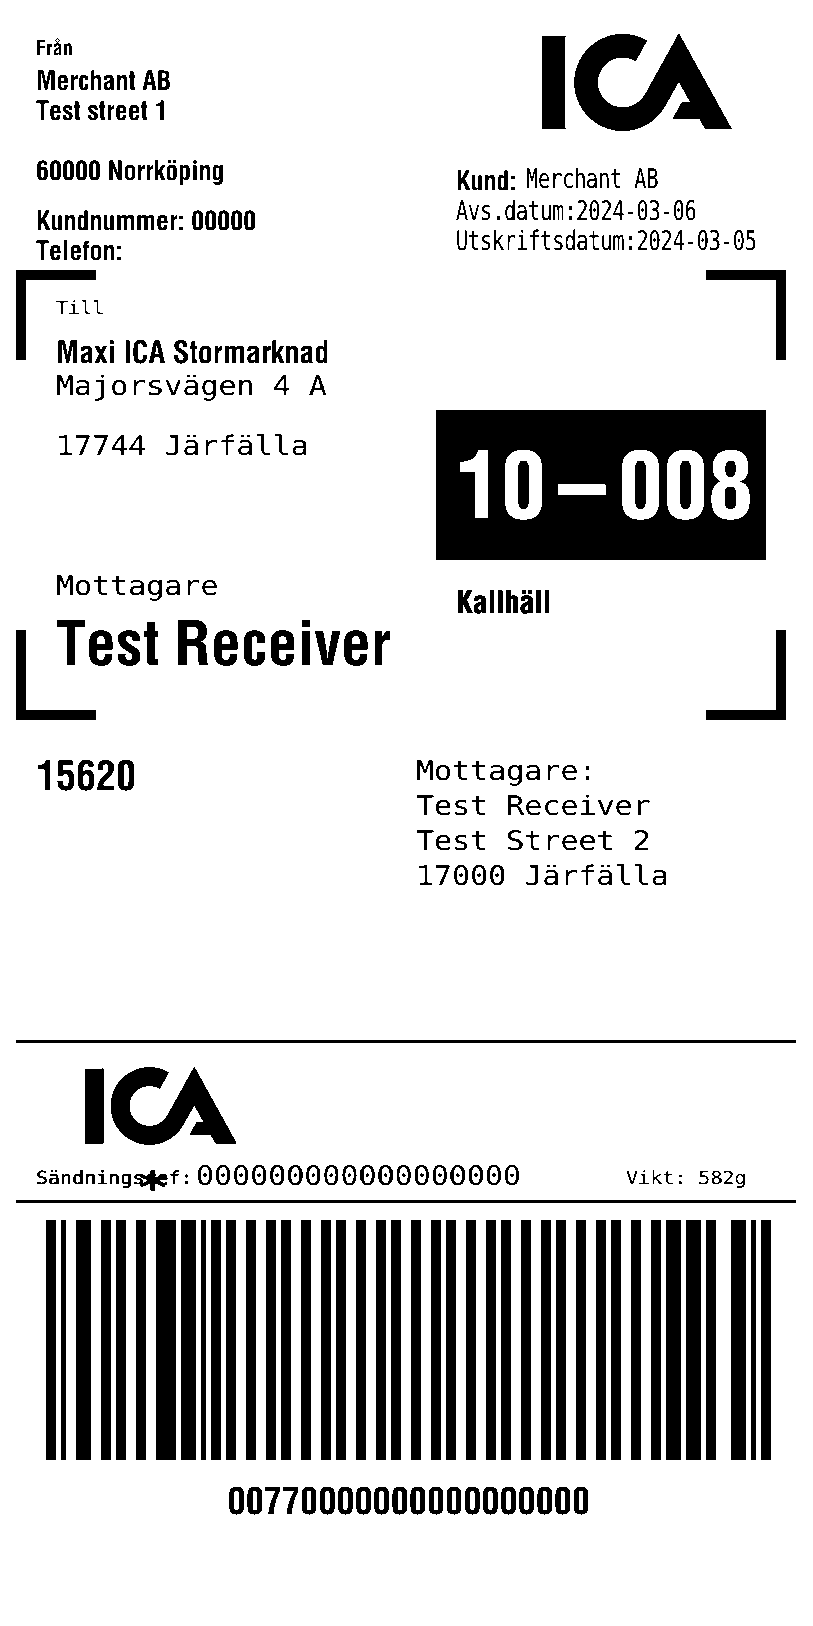
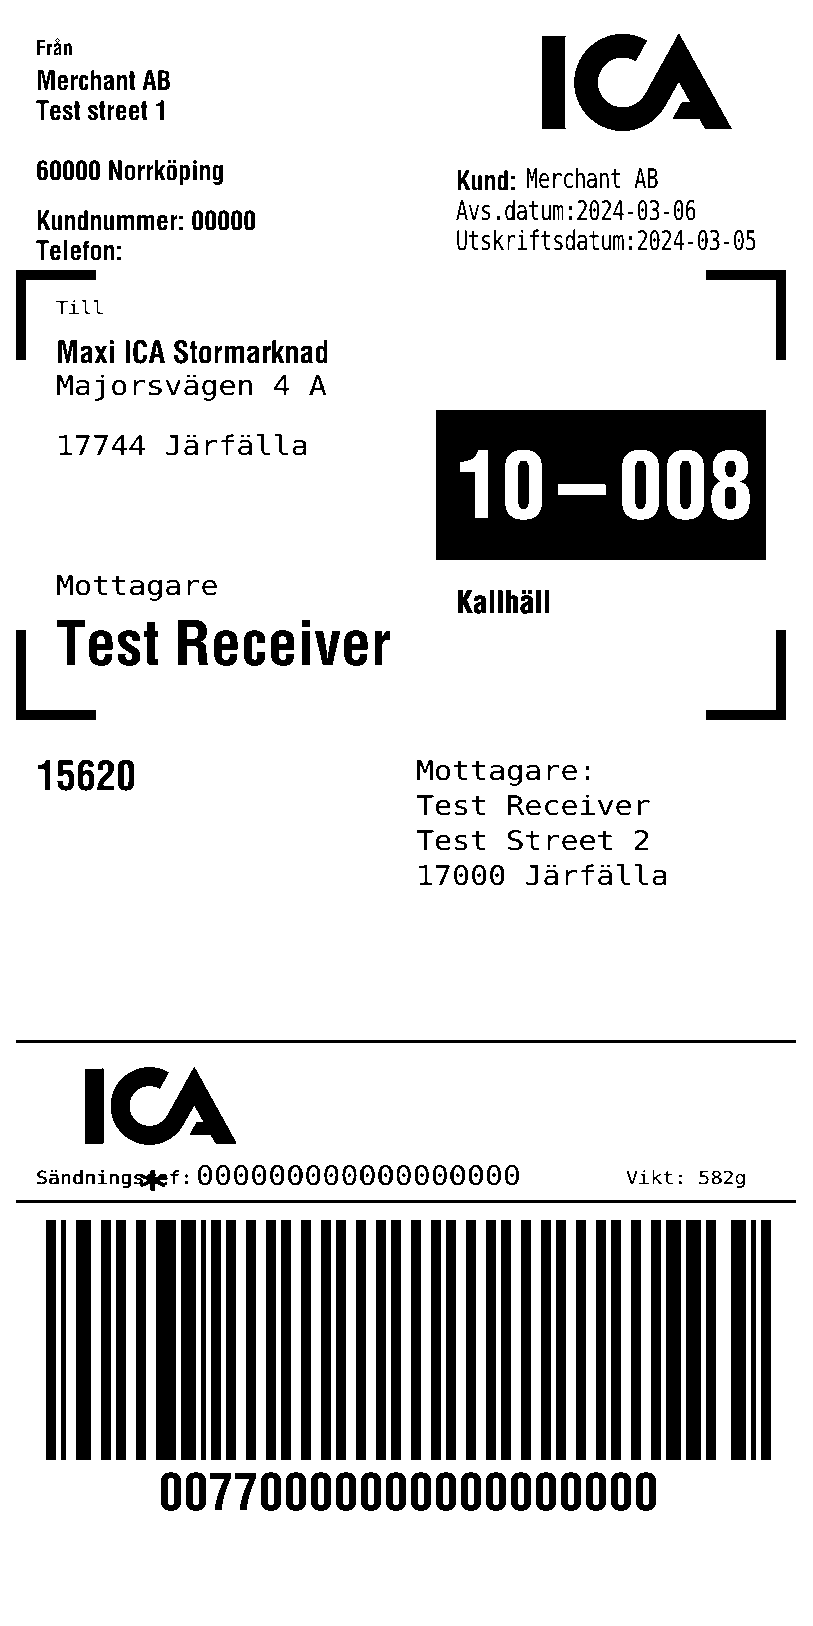
Adjust barcode text sizes and maxicode positioning

Changed region(s): [[0.1845, 0.8918, 0.8303, 0.9533]]

diff --git a/internal/drawers/barcode_128.go b/internal/drawers/barcode_128.go
@@ -15,10 +15,6 @@ import (
 	"github.com/ingridhq/zebrash/internal/elements"
 )
 
-const (
-	barcodeLineFontSizeScaleFactor = 20
-)
-
 var (
 	barcode128FNC1 = string(code128.ESCAPE_FNC_1)
 
@@ -74,7 +70,7 @@ func NewBarcode128Drawer() *ElementDrawer {
 
 			gCtx.DrawImage(img, pos.X, pos.Y)
 			if barcode.Line {
-				applyLineTextToCtx(gCtx, text, pos, barcode.LineAbove, width, height)
+				applyLineTextToCtx(gCtx, text, pos, barcode.LineAbove, float64(barcode.Width), width, height)
 			}
 
 			return nil
@@ -82,20 +78,20 @@ func NewBarcode128Drawer() *ElementDrawer {
 	}
 }
 
-func applyLineTextToCtx(gCtx *gg.Context, content string, pos elements.LabelPosition, lineAbove bool, width, height float64) {
+func applyLineTextToCtx(gCtx *gg.Context, content string, pos elements.LabelPosition, lineAbove bool, barWidth, width, height float64) {
 	gCtx.SetColor(color.Black)
-	fontSize := width / barcodeLineFontSizeScaleFactor
+	fontSize := max(barWidth, 1) * 10
 
 	face := truetype.NewFace(font0, &truetype.Options{Size: fontSize})
 	gCtx.SetFontFace(face)
 
 	x := float64(pos.X) + float64(width)/2
-	y := float64(pos.Y) - fontSize
+	y := float64(pos.Y) - fontSize/2
 	if !lineAbove {
 		y = float64(pos.Y) + height + fontSize
 	}
 
-	gCtx.DrawStringAnchored(content, x, y, 0.5, 0.5)
+	gCtx.DrawStringAnchored(content, x, y, 0.5, 0)
 }
 
 // Allows dealing with UCC/EAN with and without chained application identifiers.

diff --git a/internal/drawers/maxicode.go b/internal/drawers/maxicode.go
@@ -2,6 +2,7 @@ package drawers
 
 import (
 	"fmt"
+	"math"
 
 	"github.com/ingridhq/gg"
 	"github.com/ingridhq/maxicode"
@@ -27,10 +28,14 @@ func NewMaxicodeDrawer() *ElementDrawer {
 				return fmt.Errorf("failed to encode maxicode grid: %w", err)
 			}
 
-			img := grid.Draw(float64(options.Dpmm)).Image()
+			dpmm := float64(options.Dpmm)
+			hexRectW := int(math.Round(0.76 * dpmm))
+			hexRectH := int(math.Round(0.88 * dpmm))
+
+			img := grid.Draw(dpmm).Image()
 			pos := adjustImageTypeSetPosition(img, barcode.Position, elements.FieldOrientationNormal)
 
-			gCtx.DrawImage(img, pos.X, pos.Y)
+			gCtx.DrawImage(img, pos.X-hexRectW, pos.Y-hexRectH)
 
 			return nil
 		},

diff --git a/internal/drawers/barcode_2of5.go b/internal/drawers/barcode_2of5.go
@@ -38,7 +38,7 @@ func NewBarcode2of5Drawer() *ElementDrawer {
 
 			gCtx.DrawImage(img, pos.X, pos.Y)
 			if barcode.Line {
-				applyLineTextToCtx(gCtx, text, pos, barcode.LineAbove, width, height)
+				applyLineTextToCtx(gCtx, text, pos, barcode.LineAbove, float64(barcode.Width), width, height)
 			}
 
 			return nil

diff --git a/internal/drawers/barcode_39.go b/internal/drawers/barcode_39.go
@@ -43,7 +43,7 @@ func NewBarcode39Drawer() *ElementDrawer {
 
 			gCtx.DrawImage(img, pos.X, pos.Y)
 			if barcode.Line {
-				applyLineTextToCtx(gCtx, text, pos, barcode.LineAbove, width, height)
+				applyLineTextToCtx(gCtx, text, pos, barcode.LineAbove, float64(barcode.Width), width, height)
 			}
 
 			return nil
